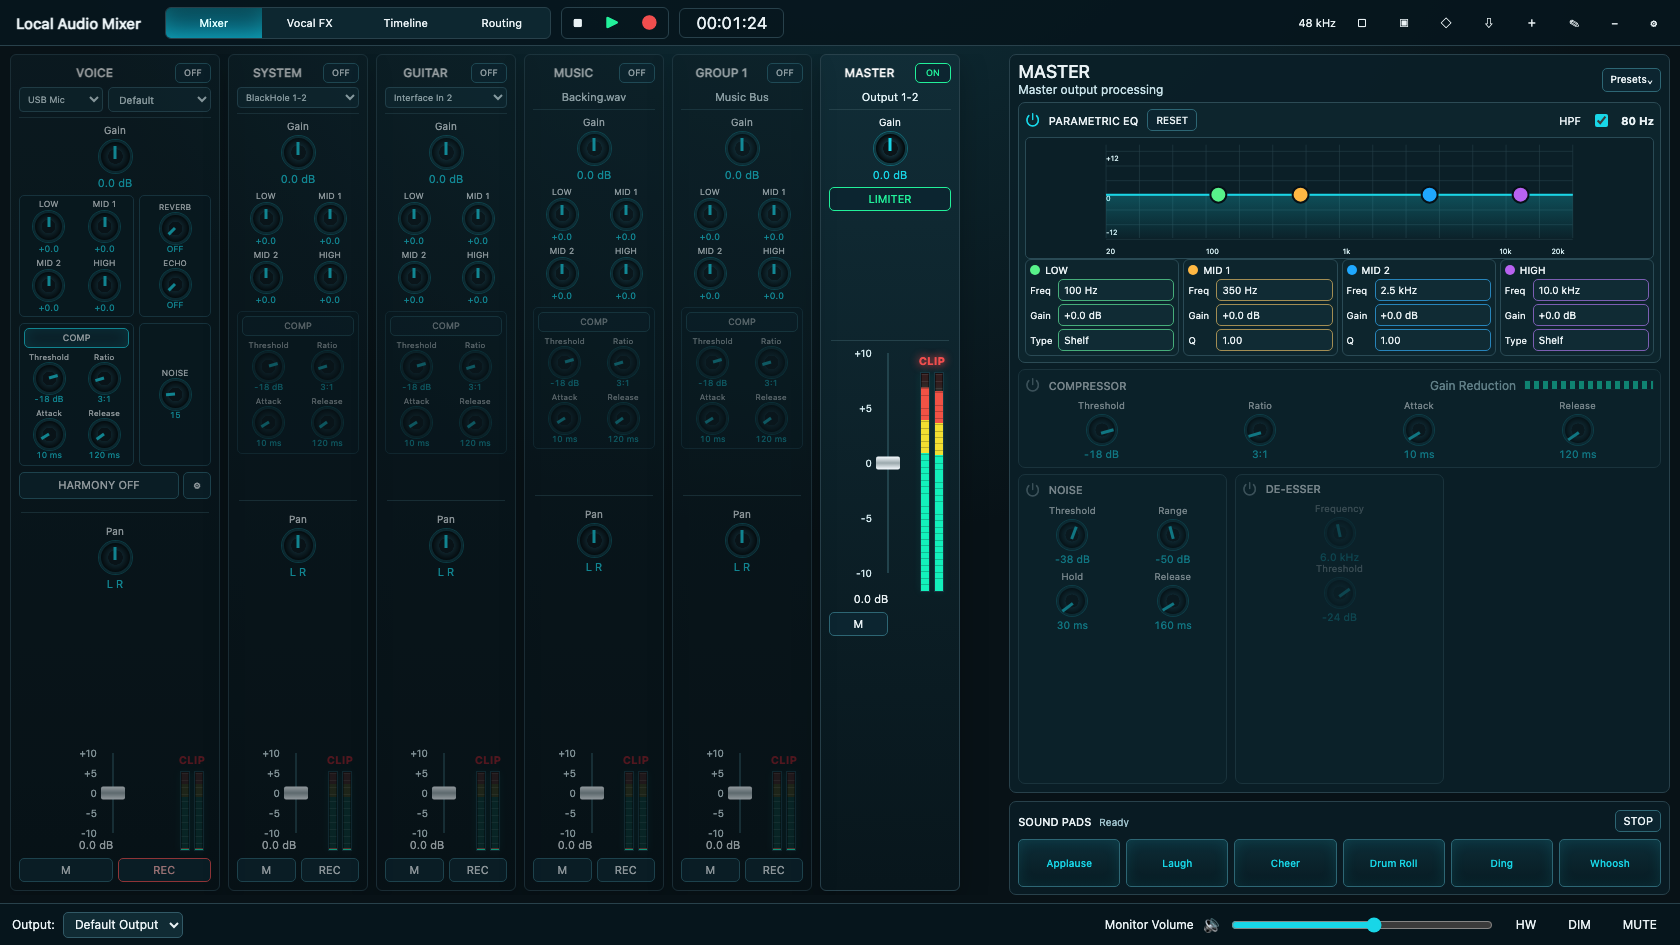
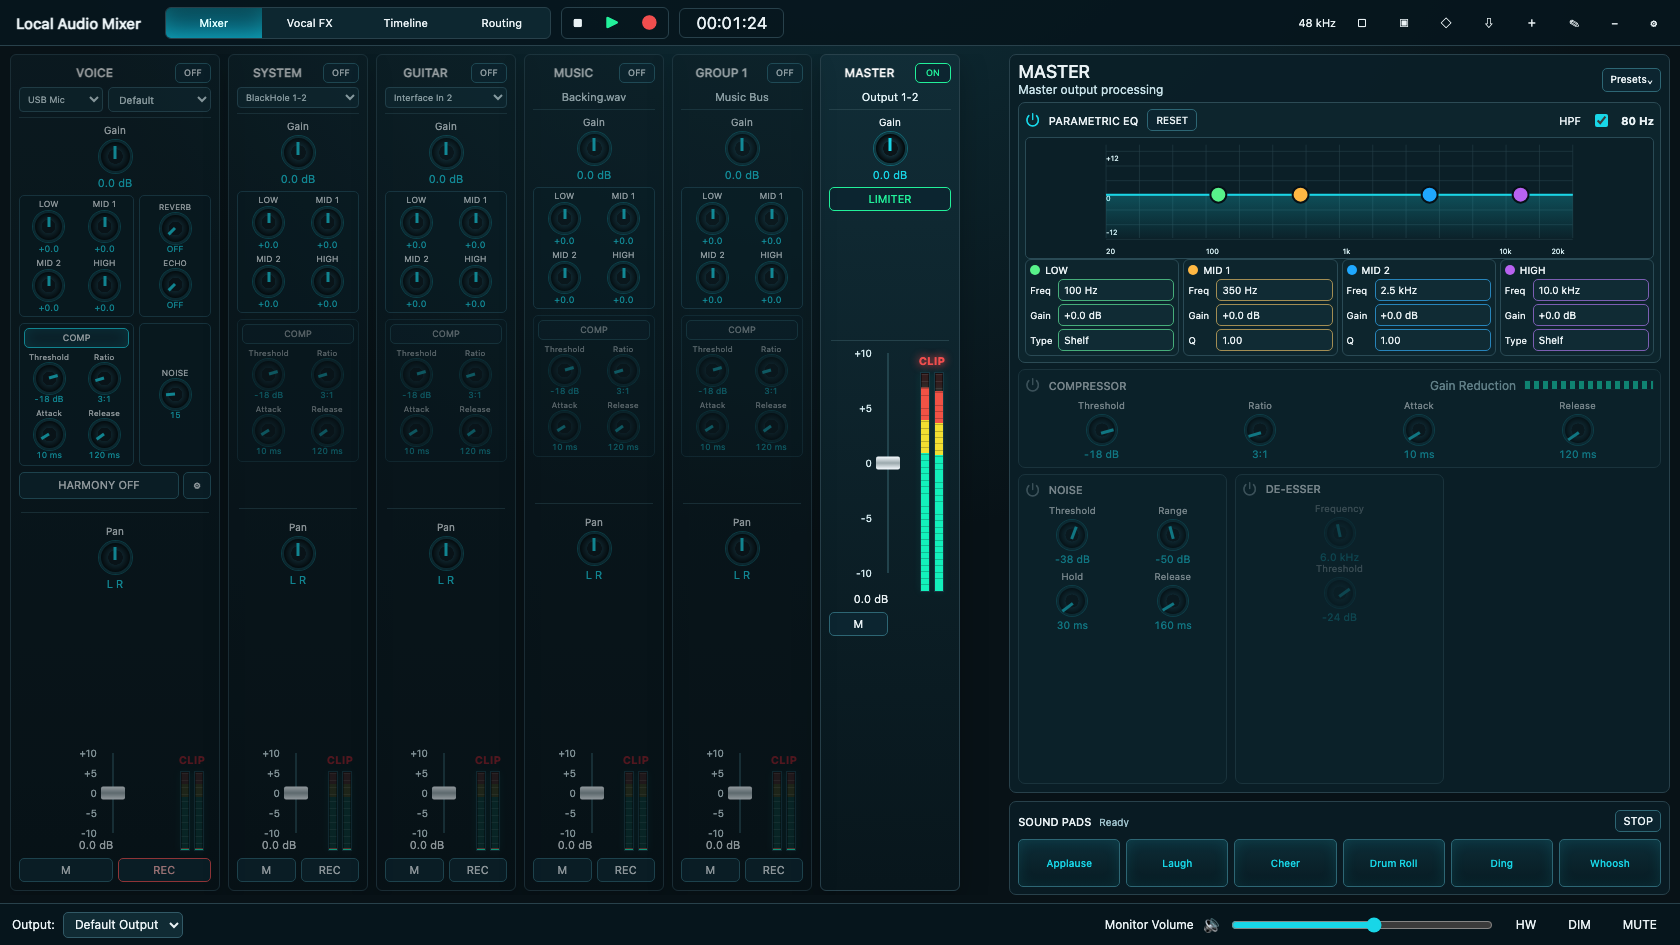
Frame channel EQ controls

diff --git a/apps/desktop/src/features/mixer/components/ChannelStrip.tsx b/apps/desktop/src/features/mixer/components/ChannelStrip.tsx
@@ -189,7 +189,7 @@ function ChannelToneControls({ channel, vocalFxSlots, onEqBand, onVocalFxMix }: 
   if (channel.role === "vocal") {
     return (
       <div className="channel-tone-section voice-tone-section">
-        <div className="voice-tone-frame">{toneControls}</div>
+        <div className="channel-tone-frame">{toneControls}</div>
         <div className="voice-space-frame">
           <VoiceSpaceControls slots={vocalFxSlots} onMix={onVocalFxMix} />
         </div>
@@ -199,7 +199,7 @@ function ChannelToneControls({ channel, vocalFxSlots, onEqBand, onVocalFxMix }: 
 
   return (
     <div className="channel-tone-section">
-      {toneControls}
+      <div className="channel-tone-frame">{toneControls}</div>
     </div>
   );
 }

diff --git a/apps/desktop/src/styles/app.css b/apps/desktop/src/styles/app.css
@@ -86,7 +86,7 @@
 .channel-insert-preset:focus { outline: 1px solid var(--cyan); outline-offset: 1px; }
 .channel-tone-section { display: grid; gap: 5px; }
 .voice-tone-section { grid-template-columns: minmax(0, 1fr) minmax(0, 0.62fr); align-items: stretch; gap: 5px; }
-.voice-tone-frame,
+.channel-tone-frame,
 .voice-space-frame { min-width: 0; display: grid; align-items: center; padding: 3px 4px; border: 1px solid #214957; border-radius: 5px; background: rgba(8, 30, 38, 0.72); }
 .channel-tone-controls { display: grid; grid-template-columns: repeat(2, minmax(0, 1fr)); gap: 4px 6px; }
 .channel-tone-controls .rotary { min-width: 0; }

diff --git a/docs/progress.md b/docs/progress.md
@@ -4808,3 +4808,28 @@ Validation:
 
 Known limitations:
 - Manual hardware confirmation of the compact VOICE dynamics row in the live desktop app is `NOT_RUN`.
+
+### Phase19 UX Checkpoint — Frame Channel EQ Controls
+
+Changed files:
+- `apps/desktop/src/features/mixer/components/ChannelStrip.tsx`: wraps non-master channel EQ controls in the same framed container style used by VOICE.
+- `apps/desktop/src/styles/app.css`: promotes the VOICE EQ frame styling to a shared channel tone frame.
+- `docs/progress.md`: records verification evidence.
+
+Implemented behavior:
+- LOW, MID 1, MID 2, and HIGH now sit inside a framed 2x2 block on the other mixer channels too.
+- VOICE keeps its left EQ frame and right REVERB/ECHO frame unchanged.
+- The change is visual/layout only and does not alter native audio routing or DSP parameters.
+
+Validation:
+- command: `npm run typecheck`
+- exit/result: `0`; TypeScript passed.
+- command: `npm run test:visual`
+- exit/result: `0`; Playwright visual suite 6/6 passed.
+- command: `npm run check:file-size`
+- exit/result: `0`; file-size check passed with the existing `MixerPage.tsx 837` warning.
+- command: `npm run verify`
+- exit/result: `0`; plan, file-size, architecture, typecheck, Vitest 55/55, native CTest 43/43, engine self-test, device enumeration smoke, protocol smoke, UI build, and Electron main/preload build passed.
+
+Known limitations:
+- Manual hardware confirmation of the framed EQ layout in the live desktop app is `NOT_RUN`.
